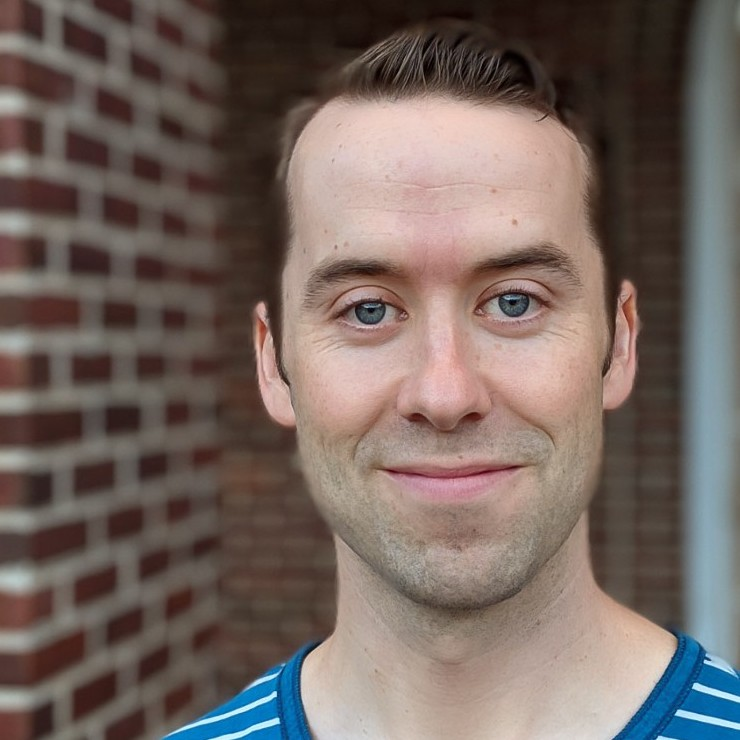
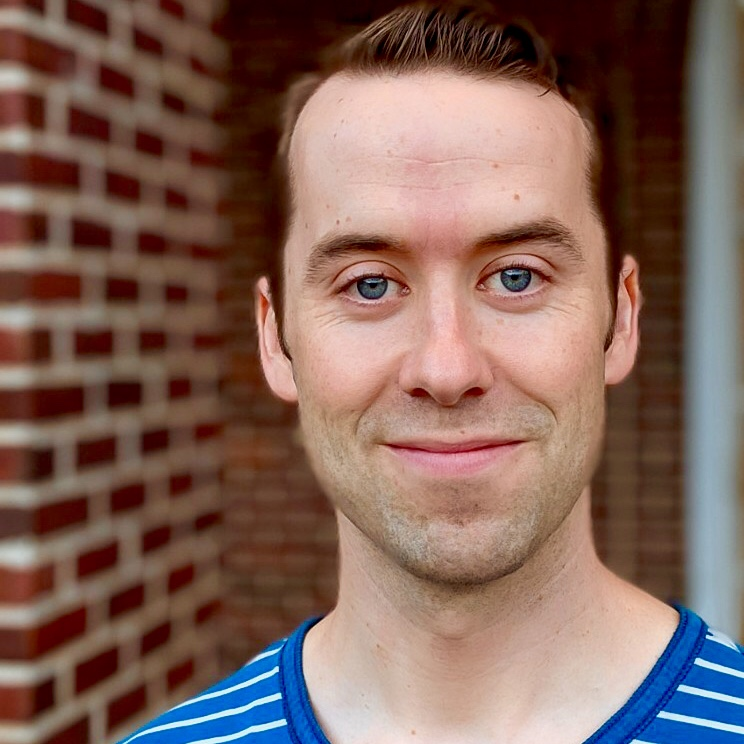
Add Vortex Seed And New (way too?) Saturated Photos

diff --git a/db/seeds/productions/vortex.rb b/db/seeds/productions/vortex.rb
@@ -1,0 +1,48 @@
+# frozen_string_literal: true
+
+s70 = Company.find_by(name: "Shakespeare '70")
+
+wwac = Venue.find_by(name: 'West Windsor Arts Center')
+
+s70_bt = BioType.find_by(code: 'S70')
+
+vortex = Production.where(company: s70,
+                       venue: wwac,
+                       title: 'The Vortex',
+                       year: 2013).first_or_create!
+
+[ # Cast
+  ['Florence Lancaster', 'Janet', 'Quartarone'],
+  ['Nicky Lancaster', 'Ray', 'Fallon'],
+  ['Tom Verya', 'Patrick', 'Albanesius'],
+  ['Bunty Mainwaring', 'Maddie', 'Patrick'],
+  ['Helen Saville', 'Heather', 'Duncan'],
+  ['Pauncefort “Pawnie” Quentin', 'Rupert', 'Hinton'],
+  ['Clara Hibbert', 'Morgan', 'Petronis'],
+  ['David Lancaster', 'Frederick', 'Bartlett'],
+  ['Bruce Fairlight', 'Andrew', 'Timmes'],
+  ['Preston', 'Stephanie', 'Schoppe']
+].each_with_index do |casting, idx|
+  Casting.where(member: Member.where(first_name: casting[1], last_name: casting[2]).first_or_create!,
+                production: vortex,
+                position: Position.find_by(code: 'A'),
+                bio_type: s70_bt).first_or_create!.update(role: casting[0], cast_order: idx)
+end
+
+
+
+[ # Pro-staff
+  ['Director', 'Curt', 'Foxworth'],
+  ['Stage Manager', 'Lili', 'Timmes'],
+  ['Assistant Stage Manager', 'Stephanie', 'Schoppe'],
+  ['Producer', 'Janet', 'Quartarone'],
+  ['Lighting Designer', 'Rob', 'Rutt'],
+  ['Graphic Design', 'Drew', 'Griffiths']
+].each do |casting|
+  Casting.where(member: Member.where(first_name: casting[1], last_name: casting[2]).first_or_create!,
+                production: vortex,
+                position: Position.find_by(description: casting[0]),
+                bio_type: s70_bt).first_or_create!
+end
+
+vortex.update(has_all_data: 'Y')
